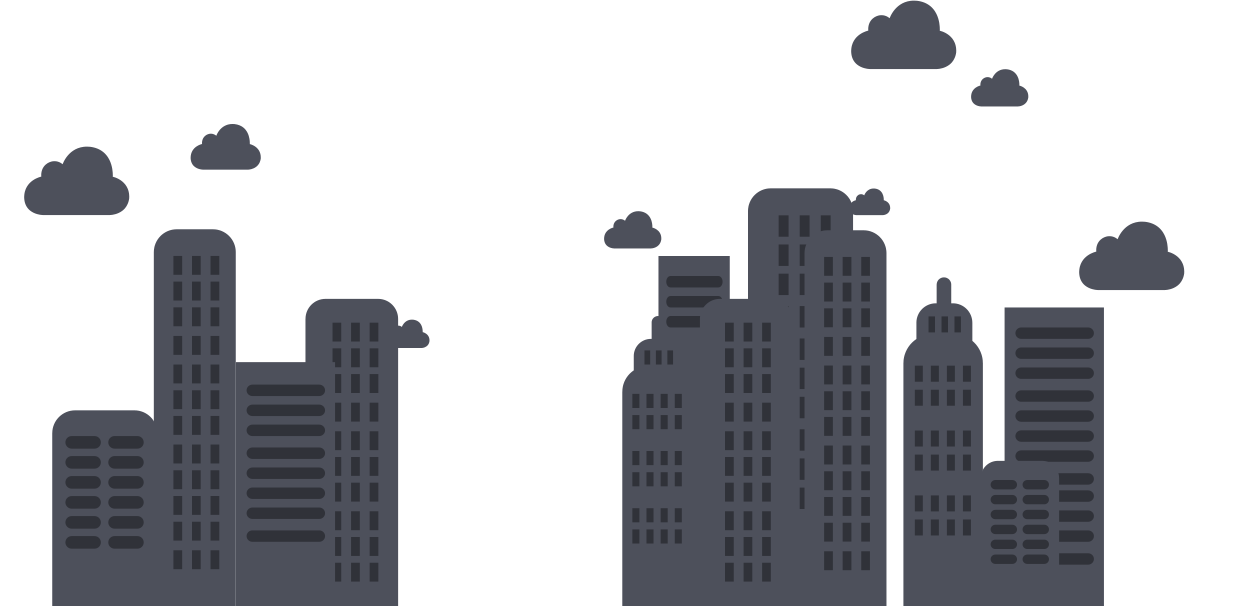
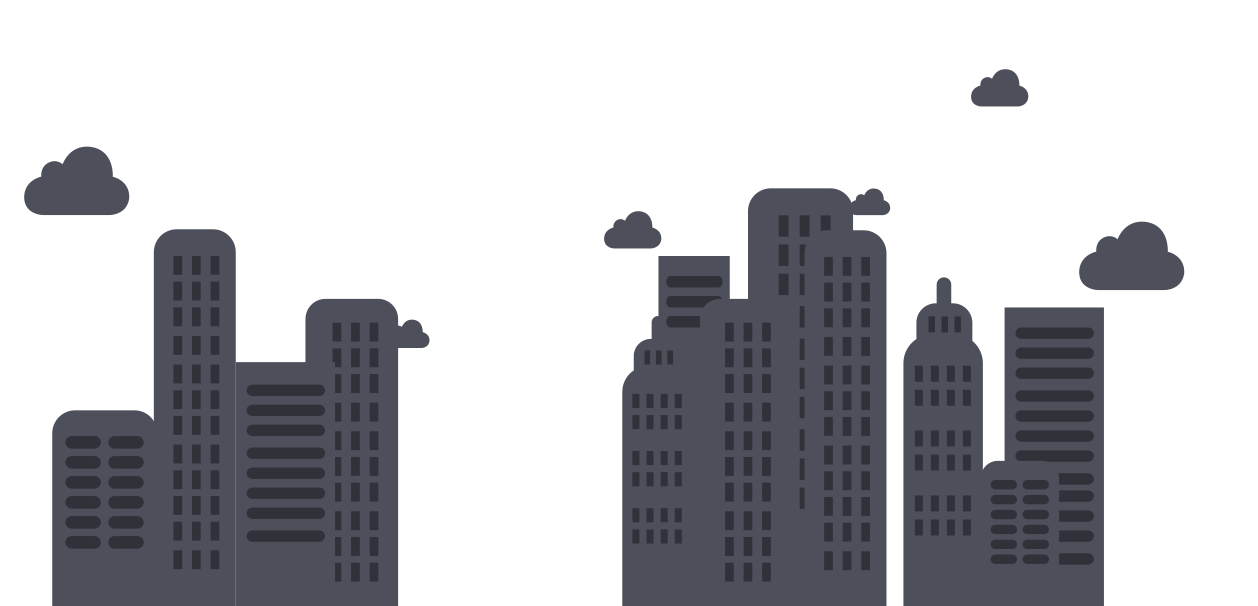
loady, no flicky

Changed region(s): [[0.651, 0.0, 0.775, 0.1188], [0.155, 0.2079, 0.217, 0.297]]

diff --git a/js/ngtimeago.js b/js/ngtimeago.js
@@ -1,0 +1,75 @@
+'use strict';
+
+var catalyst = angular.module('ngtimeago', []);
+
+
+catalyst.filter('timeago', function() {
+        return function(input, p_allowFuture) {
+		
+            var substitute = function (stringOrFunction, number, strings) {
+                    var string = angular.isFunction(stringOrFunction) ? stringOrFunction(number, dateDifference) : stringOrFunction;
+                    var value = (strings.numbers && strings.numbers[number]) || number;
+                    return string.replace(/%d/i, value);
+                },
+                nowTime = (new Date()).getTime(),
+                date = (new Date(input)).getTime(),
+                //refreshMillis= 6e4, //A minute
+                allowFuture = p_allowFuture || false,
+                strings= {
+                    prefixAgo: '',
+                    prefixFromNow: '',
+                    suffixAgo: "ago",
+                    suffixFromNow: "from now",
+                    seconds: "less than a minute",
+                    minute: "about a minute",
+                    minutes: "%d minutes",
+                    hour: "about an hour",
+                    hours: "about %d hours",
+                    day: "a day",
+                    days: "%d days",
+                    month: "about a month",
+                    months: "%d months",
+                    year: "about a year",
+                    years: "%d years"
+                },
+                dateDifference = nowTime - date,
+                words,
+                seconds = Math.abs(dateDifference) / 1000,
+                minutes = seconds / 60,
+                hours = minutes / 60,
+                days = hours / 24,
+                years = days / 365,
+                separator = strings.wordSeparator === undefined ?  " " : strings.wordSeparator,
+            
+               
+                prefix = strings.prefixAgo,
+                suffix = strings.suffixAgo;
+                
+            if (allowFuture) {
+                if (dateDifference < 0) {
+                    prefix = strings.prefixFromNow;
+                    suffix = strings.suffixFromNow;
+                }
+            }
+
+            words = seconds < 45 && substitute(strings.seconds, Math.round(seconds), strings) ||
+            seconds < 90 && substitute(strings.minute, 1, strings) ||
+            minutes < 45 && substitute(strings.minutes, Math.round(minutes), strings) ||
+            minutes < 90 && substitute(strings.hour, 1, strings) ||
+            hours < 24 && substitute(strings.hours, Math.round(hours), strings) ||
+            hours < 42 && substitute(strings.day, 1, strings) ||
+            days < 30 && substitute(strings.days, Math.round(days), strings) ||
+            days < 45 && substitute(strings.month, 1, strings) ||
+            days < 365 && substitute(strings.months, Math.round(days / 30), strings) ||
+            years < 1.5 && substitute(strings.year, 1, strings) ||
+            substitute(strings.years, Math.round(years), strings);
+			//console.log(prefix+words+suffix+separator);
+			prefix.replace(/ /g, '')
+			words.replace(/ /g, '')
+			suffix.replace(/ /g, '')
+			return (prefix+' '+words+' '+suffix+' '+separator);
+            
+        };
+    });
+
+    

diff --git a/css/style.css b/css/style.css
@@ -148,8 +148,14 @@ body{
 	margin-top: 40px;
 	text-align: center;
   font-size: 16px !important;
-  text-shadow: 1px 1px 1px #ce6774
+  text-shadow: 1px 1px 1px #ce6774;
 }
+
+.loadytext{
+  color:#cf4858;
+  text-shadow: none;
+}
+
 
 .adlib{
 	background: none !important;
@@ -179,6 +185,7 @@ body{
   height: 500px;
   background: url("../img/city.png") no-repeat;
   background-size: 970px 467px;
+  position: relative;
 }
 
 .table-custom{
@@ -218,7 +225,6 @@ a.signupLink:hover{
   line-height: 1em;
 }
 
-
 .panel-body{
   padding-bottom: 0px !important;
 }
@@ -239,4 +245,54 @@ a.signupLink:hover{
 .popover-content{
   text-align: center;
 }
+
+#cloud1{
+  height: 59px;
+  width: 90px;
+  background: url("../img/cloud1.png") no-repeat;
+  right:200;
+  position: absolute;
+  -moz-animation: 5s ease 0s normal none infinite swing;
+    -moz-transform-origin: center top;
+    -webkit-animation:swing 5s infinite ease-in-out;
+    -webkit-transform-origin:top;
+}
+
+@-moz-keyframes swing{
+    from {-moz-transform:translate(0, 0px);}
+    65% {-moz-transform:translate(0, -5px);}
+    to {-moz-transform: translate(0, -0px);} 
+}
+@-webkit-keyframes swing{
+    from {-webkit-transform:translate(0, 0px);}
+    65% {-webkit-transform:translate(0, -5px);}
+    to {-webkit-transform: translate(0, -0px);}  
+}
+
+
+#cloud2 {
+  height: 39px;
+  width: 60px;
+  background: url("../img/cloud2.png") no-repeat;
+  left:170;
+  top: 100;
+  position: absolute;
+  -moz-animation: 7s ease 0s normal none infinite float;
+    -moz-transform-origin: center top;
+    -webkit-animation:float 7s infinite ease-in-out;
+    -webkit-transform-origin:top;
+}
+
+@-moz-keyframes float{
+    from {-moz-transform:translate(0, 0px);}
+    65% {-moz-transform:translate(0, 5px);}
+    to {-moz-transform: translate(0, -0px);} 
+}
+@-webkit-keyframes float{
+    from {-webkit-transform:translate(0, 0px);}
+    65% {-webkit-transform:translate(0, 5px);}
+    to {-webkit-transform: translate(0, -0px);}  
+}
+
+
 

diff --git a/index.html b/index.html
@@ -14,6 +14,7 @@
     <script src="js/ui-bootstrap-tpls-0.12.0.min.js"></script>
     <script src="js/angulartics.js"></script>
     <script src="js/angulartics-ga.js"></script>
+    <script src="js/ngtimeago.js"></script>
 </head>
 
 <body ng-style="bodyStyle" ng-controller="ScrapeCtrl">
@@ -119,11 +120,16 @@
         <h1>I want a job located in <input type="text" class="adlibloc" ng-model="search_loc"/> doing
             <input type="search" autofocus class="adlib" ng-model="search" ng-keyup="checkPut()"/>.</h1>
 
-        <p class="lead pull-details">Omg, we found {{updated.listings}} jobs ({{updated.newjobs}} just posted) from {{updated.sites}} companies at
-            {{updated.lastRun | date:"h:mma"}} {{ timeFunction(updated.lastRun) ? timeFunction(updated.lastRun) :
-            updated.lastRun | date:" 'on' M/dd/yy"}} <span ng-if="todaysDate | date: 'MM/dd/yy' === 'new'"></span></p>
+        <p class="lead pull-details">
+            <span ng-show="!updated.lastRun" class="loadytext">Loady</span>
+             <span ng-show="updated.lastRun">Omg, we found {{updated.listings}} jobs ({{updated.newjobs}} just posted) from {{updated.sites}} companies {{updated.lastRun|timeago}}</span>
+            
+        </p>
     </div>
-    <div id="city_skyline" ng-hide="search"></div>
+    <div id="city_skyline" ng-hide="search">
+        <div id="cloud1"></div>
+        <div id="cloud2"></div>
+    </div>
     <div class="row marketing">
         <div class="col-lg-12">
             <alert type="warning warning-custom" ng-show="search && !loggedIn"><b ng-hide="hiddenPosts<1">You're missing out on {{hiddenPosts}} recently posted <span ng-bind="(hiddenPosts===1)? 'job' : 'jobs'"></span>!</b> <a href="#" ng-click="openSignup($event)">Click here to sign up and see all results</a> </alert>

diff --git a/js/app.js b/js/app.js
@@ -1,4 +1,4 @@
-var app = angular.module("Scrape", ["firebase", "ui.bootstrap",'angulartics', 'angulartics.google.analytics']);
+var app = angular.module("Scrape", ["firebase", "ui.bootstrap",'angulartics', 'angulartics.google.analytics', 'ngtimeago']);
 //Email Verification
 app.factory('postEmailForm', function($http) {
     return {
@@ -30,8 +30,8 @@ app.controller("ScrapeCtrl", function($scope, $firebase) {
     $scope.data = data.$asArray();
     var updated = $firebase(ref.child('LastScraped'));
     $scope.updated = updated.$asObject();
+
     //Jumbotron Vars
-    $scope.comingSoon = 'Adding more cities soon';
     $scope.search_loc = 'Boston';
     //Get oldest post
     $scope.showJobs =[];
@@ -69,17 +69,6 @@ app.controller("ScrapeCtrl", function($scope, $firebase) {
             $scope.showJobs = [oldestJob,oldestJob+3.1536e+10];
         }
     });
-    //date friendly view
-    $scope.timeFunction = function(a) {
-        var today = new Date();
-        var lastRun = new Date(a);
-
-        if ((today.getDate()) == lastRun.getDate())
-            return "today";
-
-        if ((today.getDate() - 1) == lastRun.getDate())
-            return "yesterday"
-    };
     $scope.openSignup = function($event) {
         $event.preventDefault();
         $event.stopPropagation();
